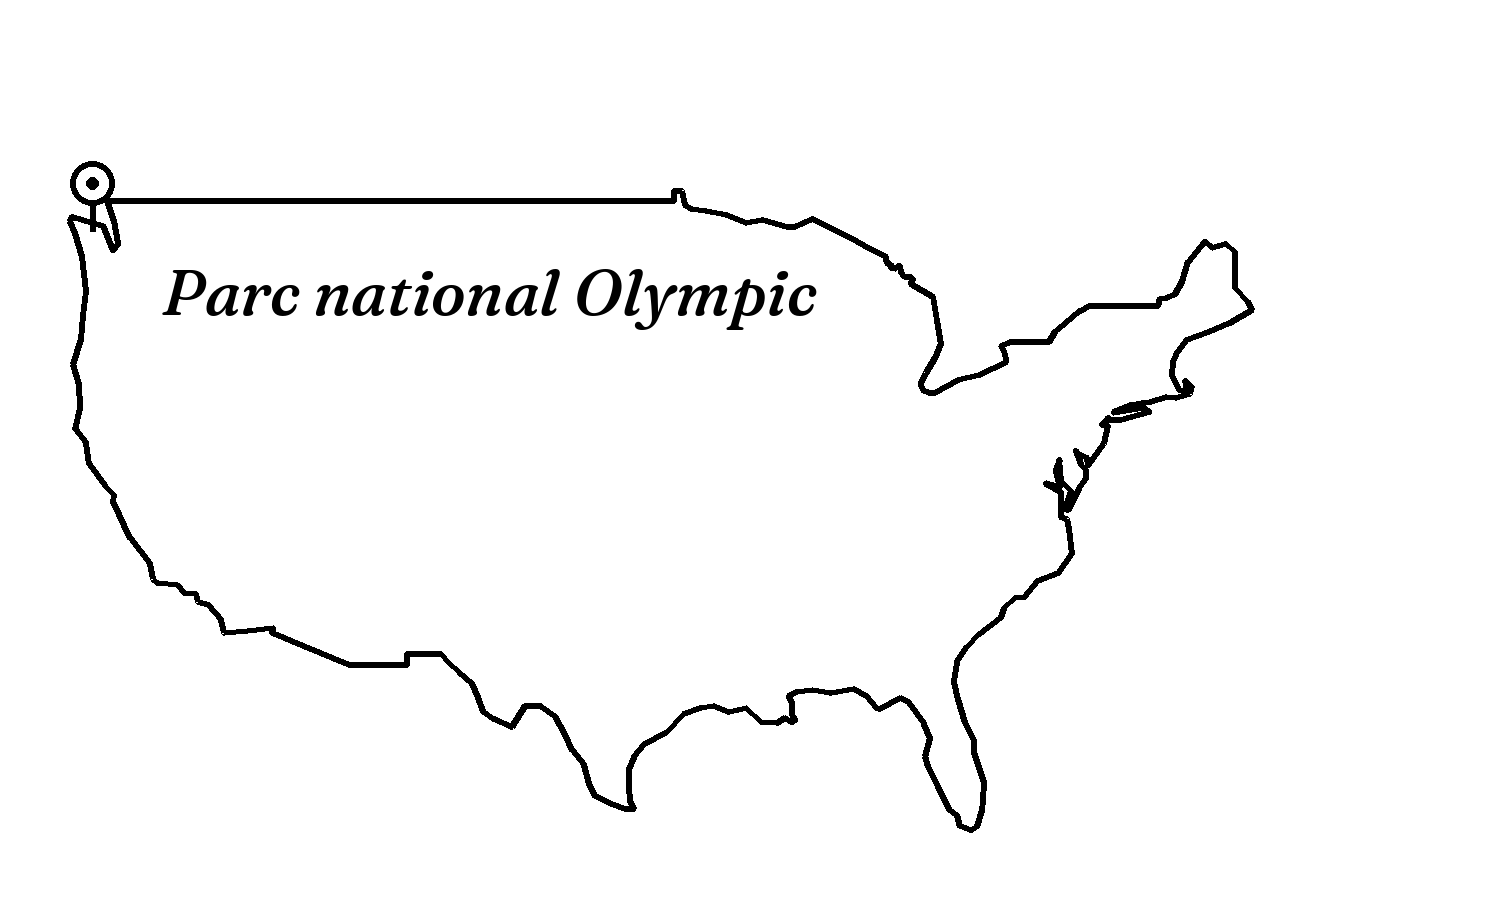
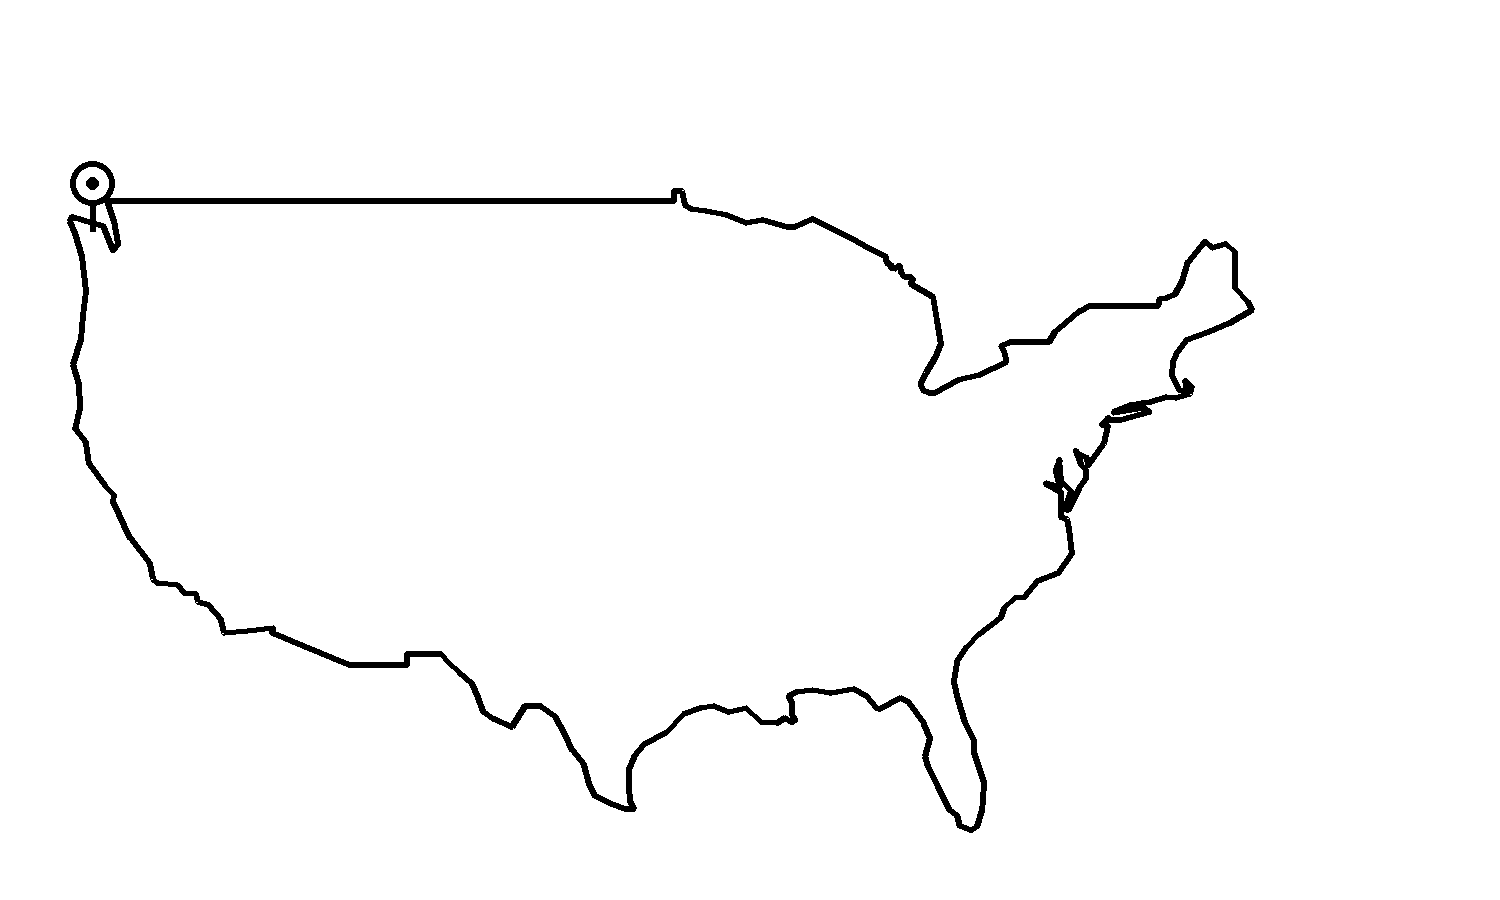
histoire-du-sel: words handwritten left to right; pen scratch follows the pen exactly (10 ms gate); map label written by the pen
Claude-Session: https://claude.ai/code/session_0111fVE69YejjUpxxqFZnbwR

Changed region(s): [[0.092, 0.28, 0.552, 0.3733]]

diff --git a/videos/histoire-du-sel/plates.py b/videos/histoire-du-sel/plates.py
@@ -74,11 +74,13 @@ class Drawing:
         return lines, fill, T
 
 
-def _order(alpha, key, step=2):
+def _order(alpha, key, step=2, write=False):
     """Draw-on time (0..1) for every pixel, and the pen-down spans, for ONE pen: the ink is thinned
     to its centre lines, the pen follows them one line at a time (depth-first along each line,
     lifting at branch ends), and goes on to the nearest unfinished line, so only one place is ever
-    being drawn. Every ink pixel takes the time of the nearest centre-line point."""
+    being drawn. Every ink pixel takes the time of the nearest centre-line point.
+    write=True (words): the pen goes left to right like a hand writing, letter after letter, each
+    stroke starting at its top-left."""
     from skimage.morphology import skeletonize
     cache = os.path.join(asset('..'), 'out', '_drawon', f'{key}.npz') if key else None
     if cache and os.path.exists(cache):
@@ -105,8 +107,13 @@ def _order(alpha, key, step=2):
     left = N
     while left:
         cand = np.nonzero(~seen)[0]
-        d2 = (ys[cand] - pen[0]) ** 2 + (xs[cand] - pen[1]) ** 2 - 4000.0 * (deg[cand] <= 1)   # prefer line ends
-        s0 = int(cand[np.argmin(d2)])
+        if write:                                            # handwriting: the leftmost stroke next, from its top
+            xm = xs[cand].min()
+            near = cand[xs[cand] <= xm + max(3, sk.shape[0] // 12)]
+            s0 = int(near[np.argmin(ys[near] - 6 * (deg[near] <= 1))])
+        else:
+            d2 = (ys[cand] - pen[0]) ** 2 + (xs[cand] - pen[1]) ** 2 - 4000.0 * (deg[cand] <= 1)   # prefer line ends
+            s0 = int(cand[np.argmin(d2)])
         clock += 6 + 0.15 * np.hypot(ys[s0] - pen[0], xs[s0] - pen[1])   # the pen lifts and travels
         stack, prev = [s0], None
         while stack:
@@ -168,6 +175,16 @@ def plate(s, d, t, start=ENTER, focus_to=(0.5, 0.5), scale=1.0, cx=W / 2, cy=H /
     draw_on(s, d, t, start, scale, cx, cy)
 
 
+def gate(spans, dur, rate=100):
+    """The pen's up/down pattern as 0/1 per 10 ms over `dur` seconds (for the scratch sound)."""
+    n = max(1, int(dur * rate))
+    g = [0] * n
+    for a, b in spans:
+        for i in range(int(a * n), min(n, max(int(a * n) + 1, int(b * n)))):
+            g[i] = 1
+    return tuple(g)
+
+
 def draw_time(e):
     """How long the pen takes on one drawing (an Entry may set its own .dur)."""
     return getattr(e, 'dur', None) or DRAW
@@ -198,7 +215,7 @@ def draw_on(s, d, t, start, scale, cx, cy):
     dur = min(DRAW, max(1.2, 0.55 * s.D))
     if t < start:
         return
-    sfx('draw', max(0.0, start), cx, dur=dur, spans=tuple(tuple(round(v, 4) for v in sp) for sp in d.spans[:400]))
+    sfx('draw', max(0.0, start), cx, dur=dur, gate=gate(d.spans, dur))
     x0, y0 = int(cx - lines.width / 2), int(cy - lines.height / 2)
     draw_layers(s.mid, lines, fill, order, t, start, dur, x0, y0)
 
@@ -227,9 +244,15 @@ def _s_draw(r, p):
     L = p.get('dur', 3.0)
     n = _sfx._sec(L)
     t = np.arange(n) / _sfx.SR
-    gate = np.zeros(n)
-    for a, b in p.get('spans', ((0, 1),)):
-        gate[int(a * n):int(b * n)] = 1.0
+    if 'gate' in p:                                            # pen down / up, 10 ms steps, exactly as drawn
+        g = np.asarray(p['gate'], np.float64)
+        gate = np.repeat(g, int(np.ceil(n / len(g))))[:n]
+        if len(gate) < n:
+            gate = np.pad(gate, (0, n - len(gate)))
+    else:
+        gate = np.zeros(n)
+        for a, b in p.get('spans', ((0, 1),)):
+            gate[int(a * n):int(b * n)] = 1.0
     k = int(0.012 * _sfx.SR)                                   # soft pen landings and lifts
     gate = np.convolve(gate, np.ones(k) / k, mode='same')
     wob = 0.75 + 0.25 * np.sin(2 * np.pi * (7 + 3 * r.random()) * t + r.random() * 6)   # the hand's rhythm

diff --git a/videos/histoire-du-sel/board.py b/videos/histoire-du-sel/board.py
@@ -133,17 +133,24 @@ def _text_ink(text, size):
     rgba = np.zeros(a.shape + (4,), np.uint8)
     rgba[..., :3] = S.PAL.ink
     rgba[..., 3] = a
-    T, spans = PL._order(a, None, step=1)
+    T, spans = PL._order(a, None, step=1, write=True)
     return Image.fromarray(rgba, 'RGBA'), T, spans
 
 
-def write(text, size, dx, dy, at, dur=1.1):
-    """An extra for an Entry: the pen writes `text` at (dx, dy) from the drawing's centre, starting
-    at act time `at` (the spoken word)."""
+def write(text, size, dx, dy, at, dur=None, frac=False, anchor='m'):
+    """An extra for an Entry: the pen writes `text` at (dx, dy) from the drawing's centre (or, with
+    frac=True, at fractions of the drawing's box), starting at act time `at`. The writing speed is
+    the same for every word (about 9 letters a second) unless dur is given."""
+    dur = dur or max(0.5, 0.11 * len(text.replace(' ', '')))
     def fn(c, lt, e):
         lines, T, spans = _text_ink(text, size)
-        x0 = int(W / 2 + dx - lines.width / 2)
-        y0 = int(H / 2 + dy - lines.height / 2)
+        if frac:
+            bx, by, bw, bh = e.d.box
+            px, py = bx + dx * bw, by + dy * bh
+        else:
+            px, py = W / 2 + dx, H / 2 + dy
+        x0 = int(px - (0 if anchor == 'l' else lines.width / 2))
+        y0 = int(py - lines.height / 2)
         PL.draw_layers(c, lines, None, T, lt, at - e.start, dur, x0, y0)
     fn.sound = (at, dur, lambda: _text_ink(text, size)[2])
     return fn
@@ -238,12 +245,11 @@ class Board:
             frame.alpha_composite(c, (int(round(sx - c.width / 2)), int(round(sy - c.height / 2))))
         s.mid.alpha_composite(frame)
         for e in self.entries:                 # the pen's scratch, for drawings and for words
-            sfx('draw', max(0.0, e.start), W / 2, dur=PL.draw_time(e),
-                spans=tuple(tuple(round(v, 4) for v in sp) for sp in getattr(e.d, 'spans', ((0, 1),))[:400]))
+            sfx('draw', max(0.0, e.start), W / 2, dur=PL.draw_time(e), gate=PL.gate(e.d.spans, PL.draw_time(e)))
             for fn in e.extras:
                 if hasattr(fn, 'sound'):
                     at, dur, sp = fn.sound
-                    sfx('draw', at, W / 2, dur=dur, spans=tuple(tuple(round(v, 4) for v in x) for x in sp()[:200]))
+                    sfx('draw', at, W / 2, dur=dur, gate=PL.gate(sp(), dur))
         return s
 
     def _prev_cell(self):

diff --git a/videos/histoire-du-sel/act1.py b/videos/histoire-du-sel/act1.py
@@ -43,6 +43,9 @@ ENTRIES = [
     E('G08', 'l’estomac', arrive(3, 'Le chlore'), focus=(0.62, 0.62)),
 ]
 BOARD = BD.Board(ENTRIES, end=cue.total + 1.2)
+import json as _json
+_pin = _json.load(open(asset('M01.json')))['pin']
+ENTRIES[0].extras.append(BD.write('Parc national Olympic', 52, _pin[0] + 0.05, _pin[1] + 0.08, DONE('M01'), frac=True, anchor='l'))
 # words, written by the same pen, once their drawing is done
 ENTRIES[6].extras.append(BD.write('NaCl', 170, 560, 0, max(cue(3, 'chlorure'), DONE('G06'))))
 ENTRIES[7].extras.append(BD.write('Na', 120, 520, -300, DONE('G07'), dur=0.7))       # « un afflux de sodium »

diff --git a/videos/histoire-du-sel/tools/make_maps.py b/videos/histoire-du-sel/tools/make_maps.py
@@ -41,9 +41,9 @@ def us_map(path, pin=(-123.6, 47.8), label='Parc national Olympic'):
     d.ellipse((px - 22, py - 70, px + 22, py - 26), outline='black', width=6)
     d.ellipse((px - 6, py - 54, px + 6, py - 42), fill='black')
     d.line((px, py - 26, px, py), fill='black', width=6)
-    f = ImageFont.truetype(FONT, 64)
-    d.text((px + 70, py + 20), label, font=f, fill='black')
+    # the label is not drawn here: the pen writes it on the board, left to right (board.write)
     im.save(path)
+    json.dump({'pin': [px / Wd, py / Hd]}, open(path[:-4] + '.json', 'w'))
     print(path)
 
 
